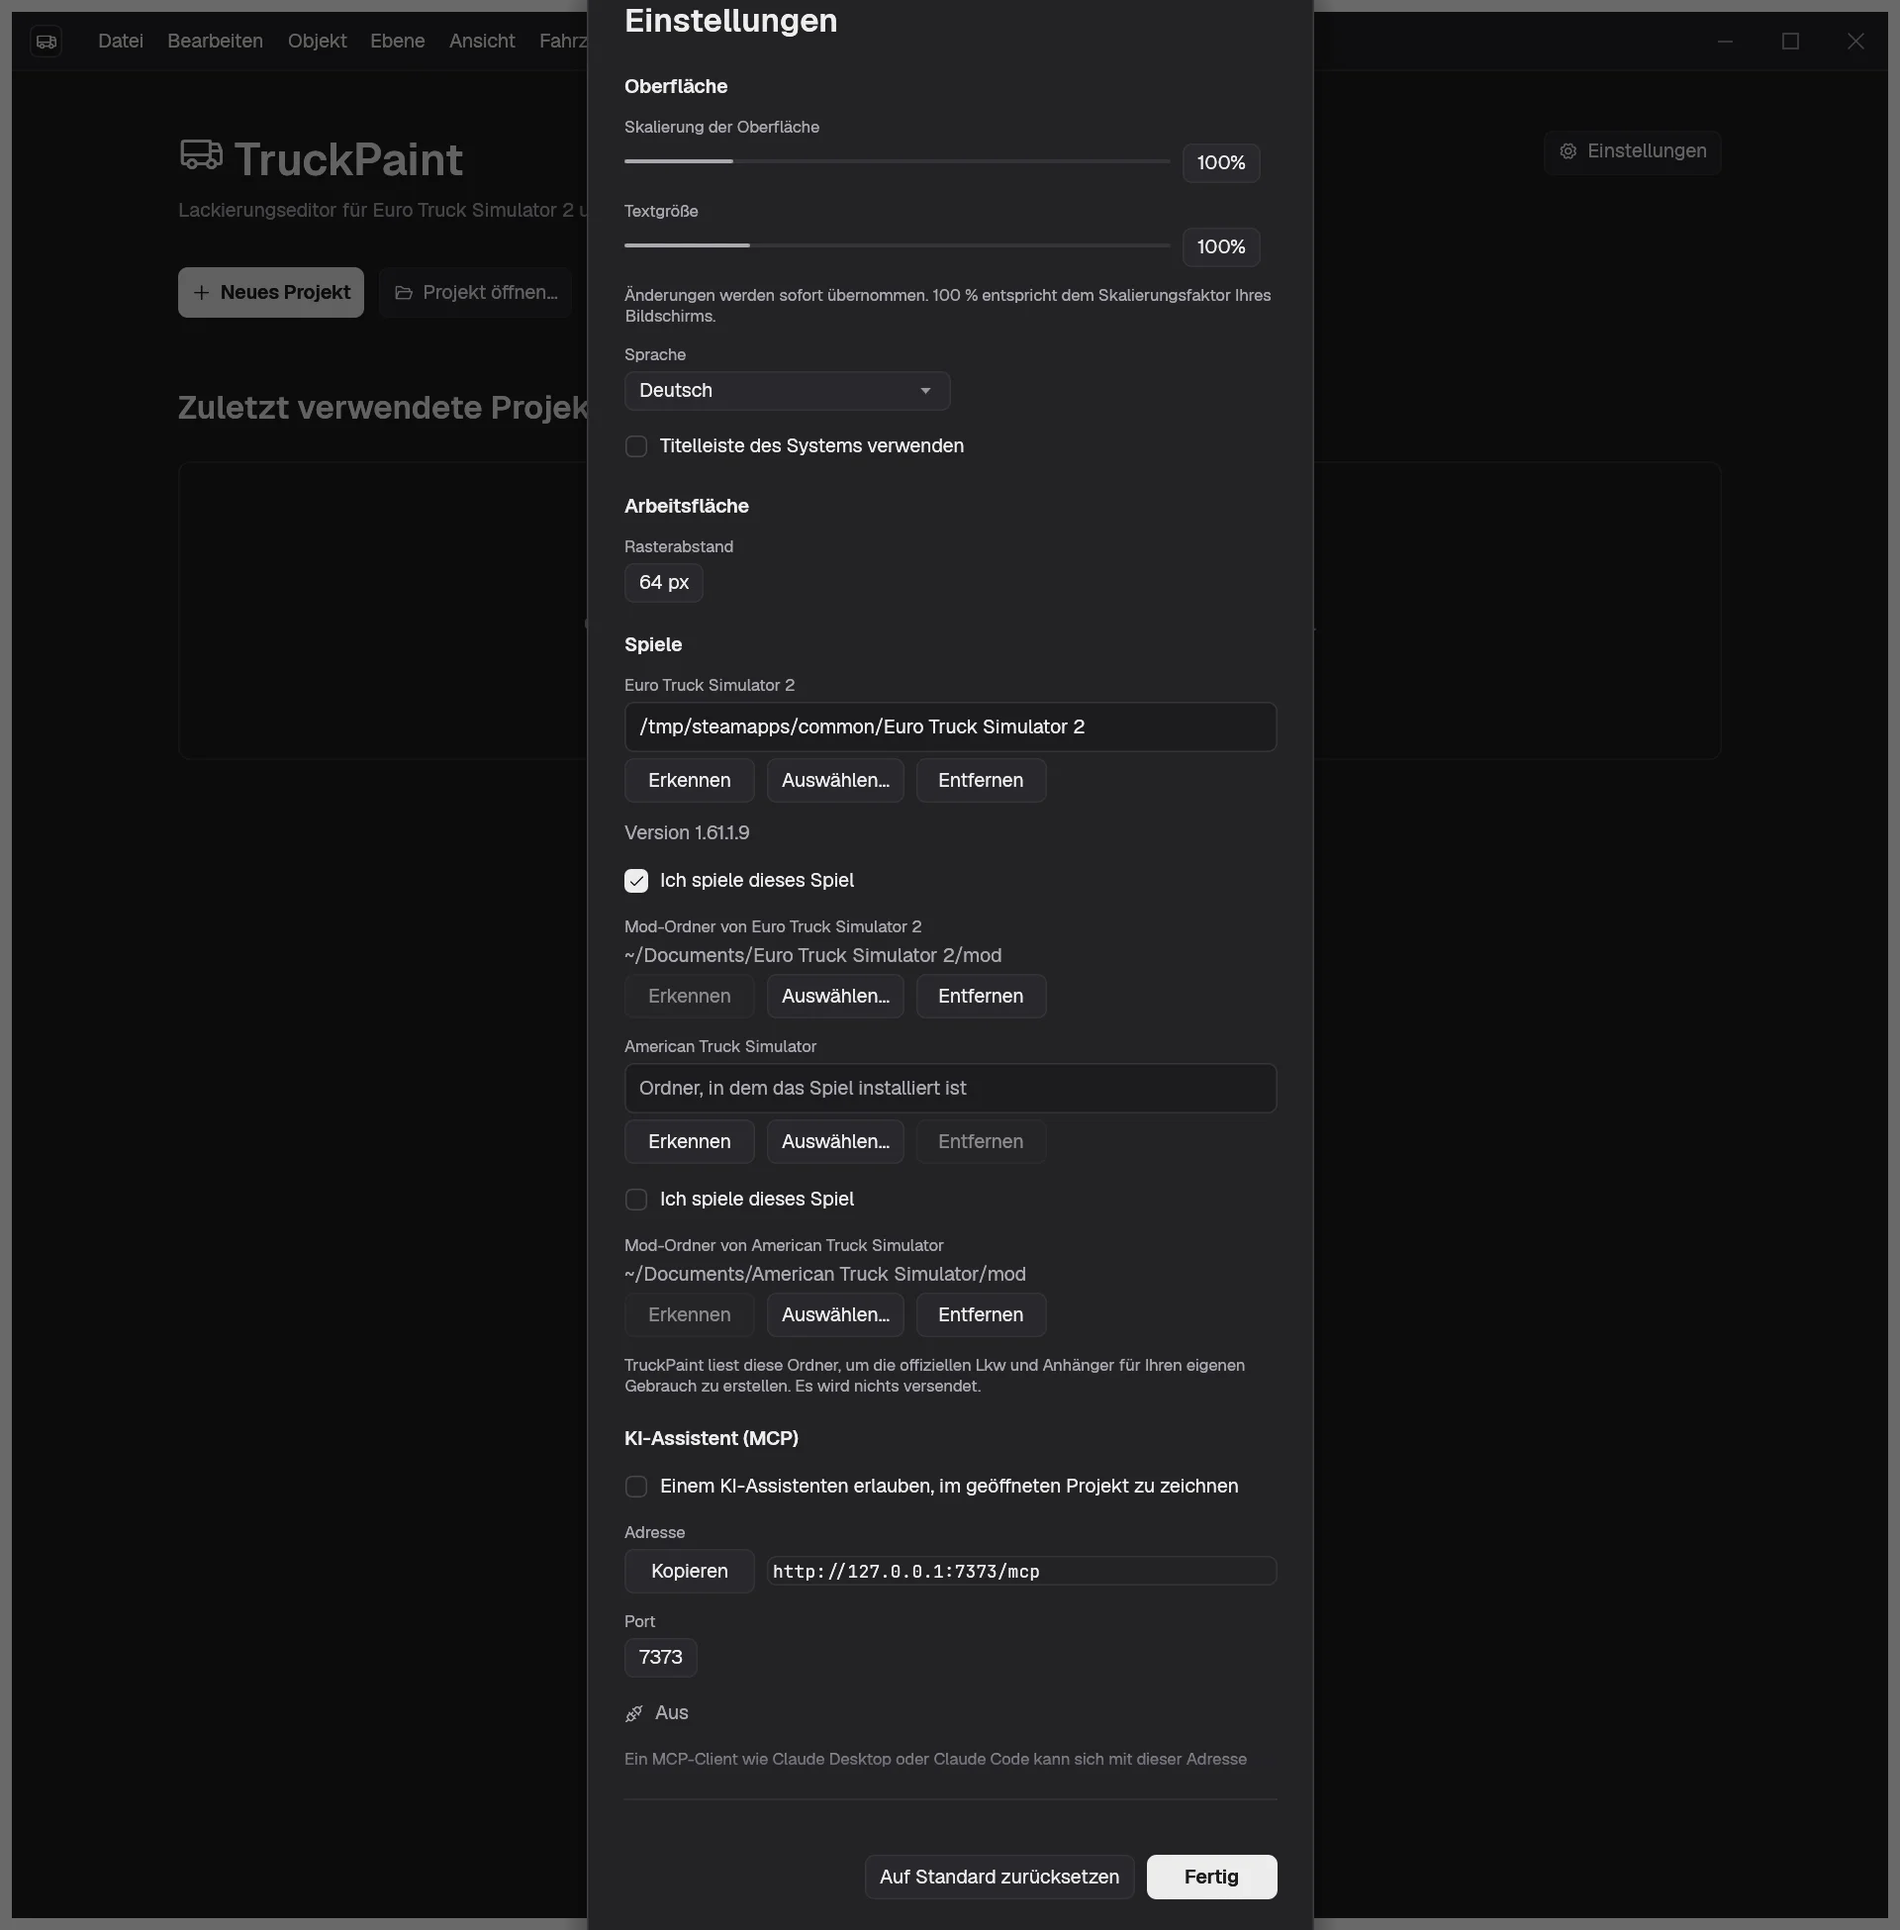
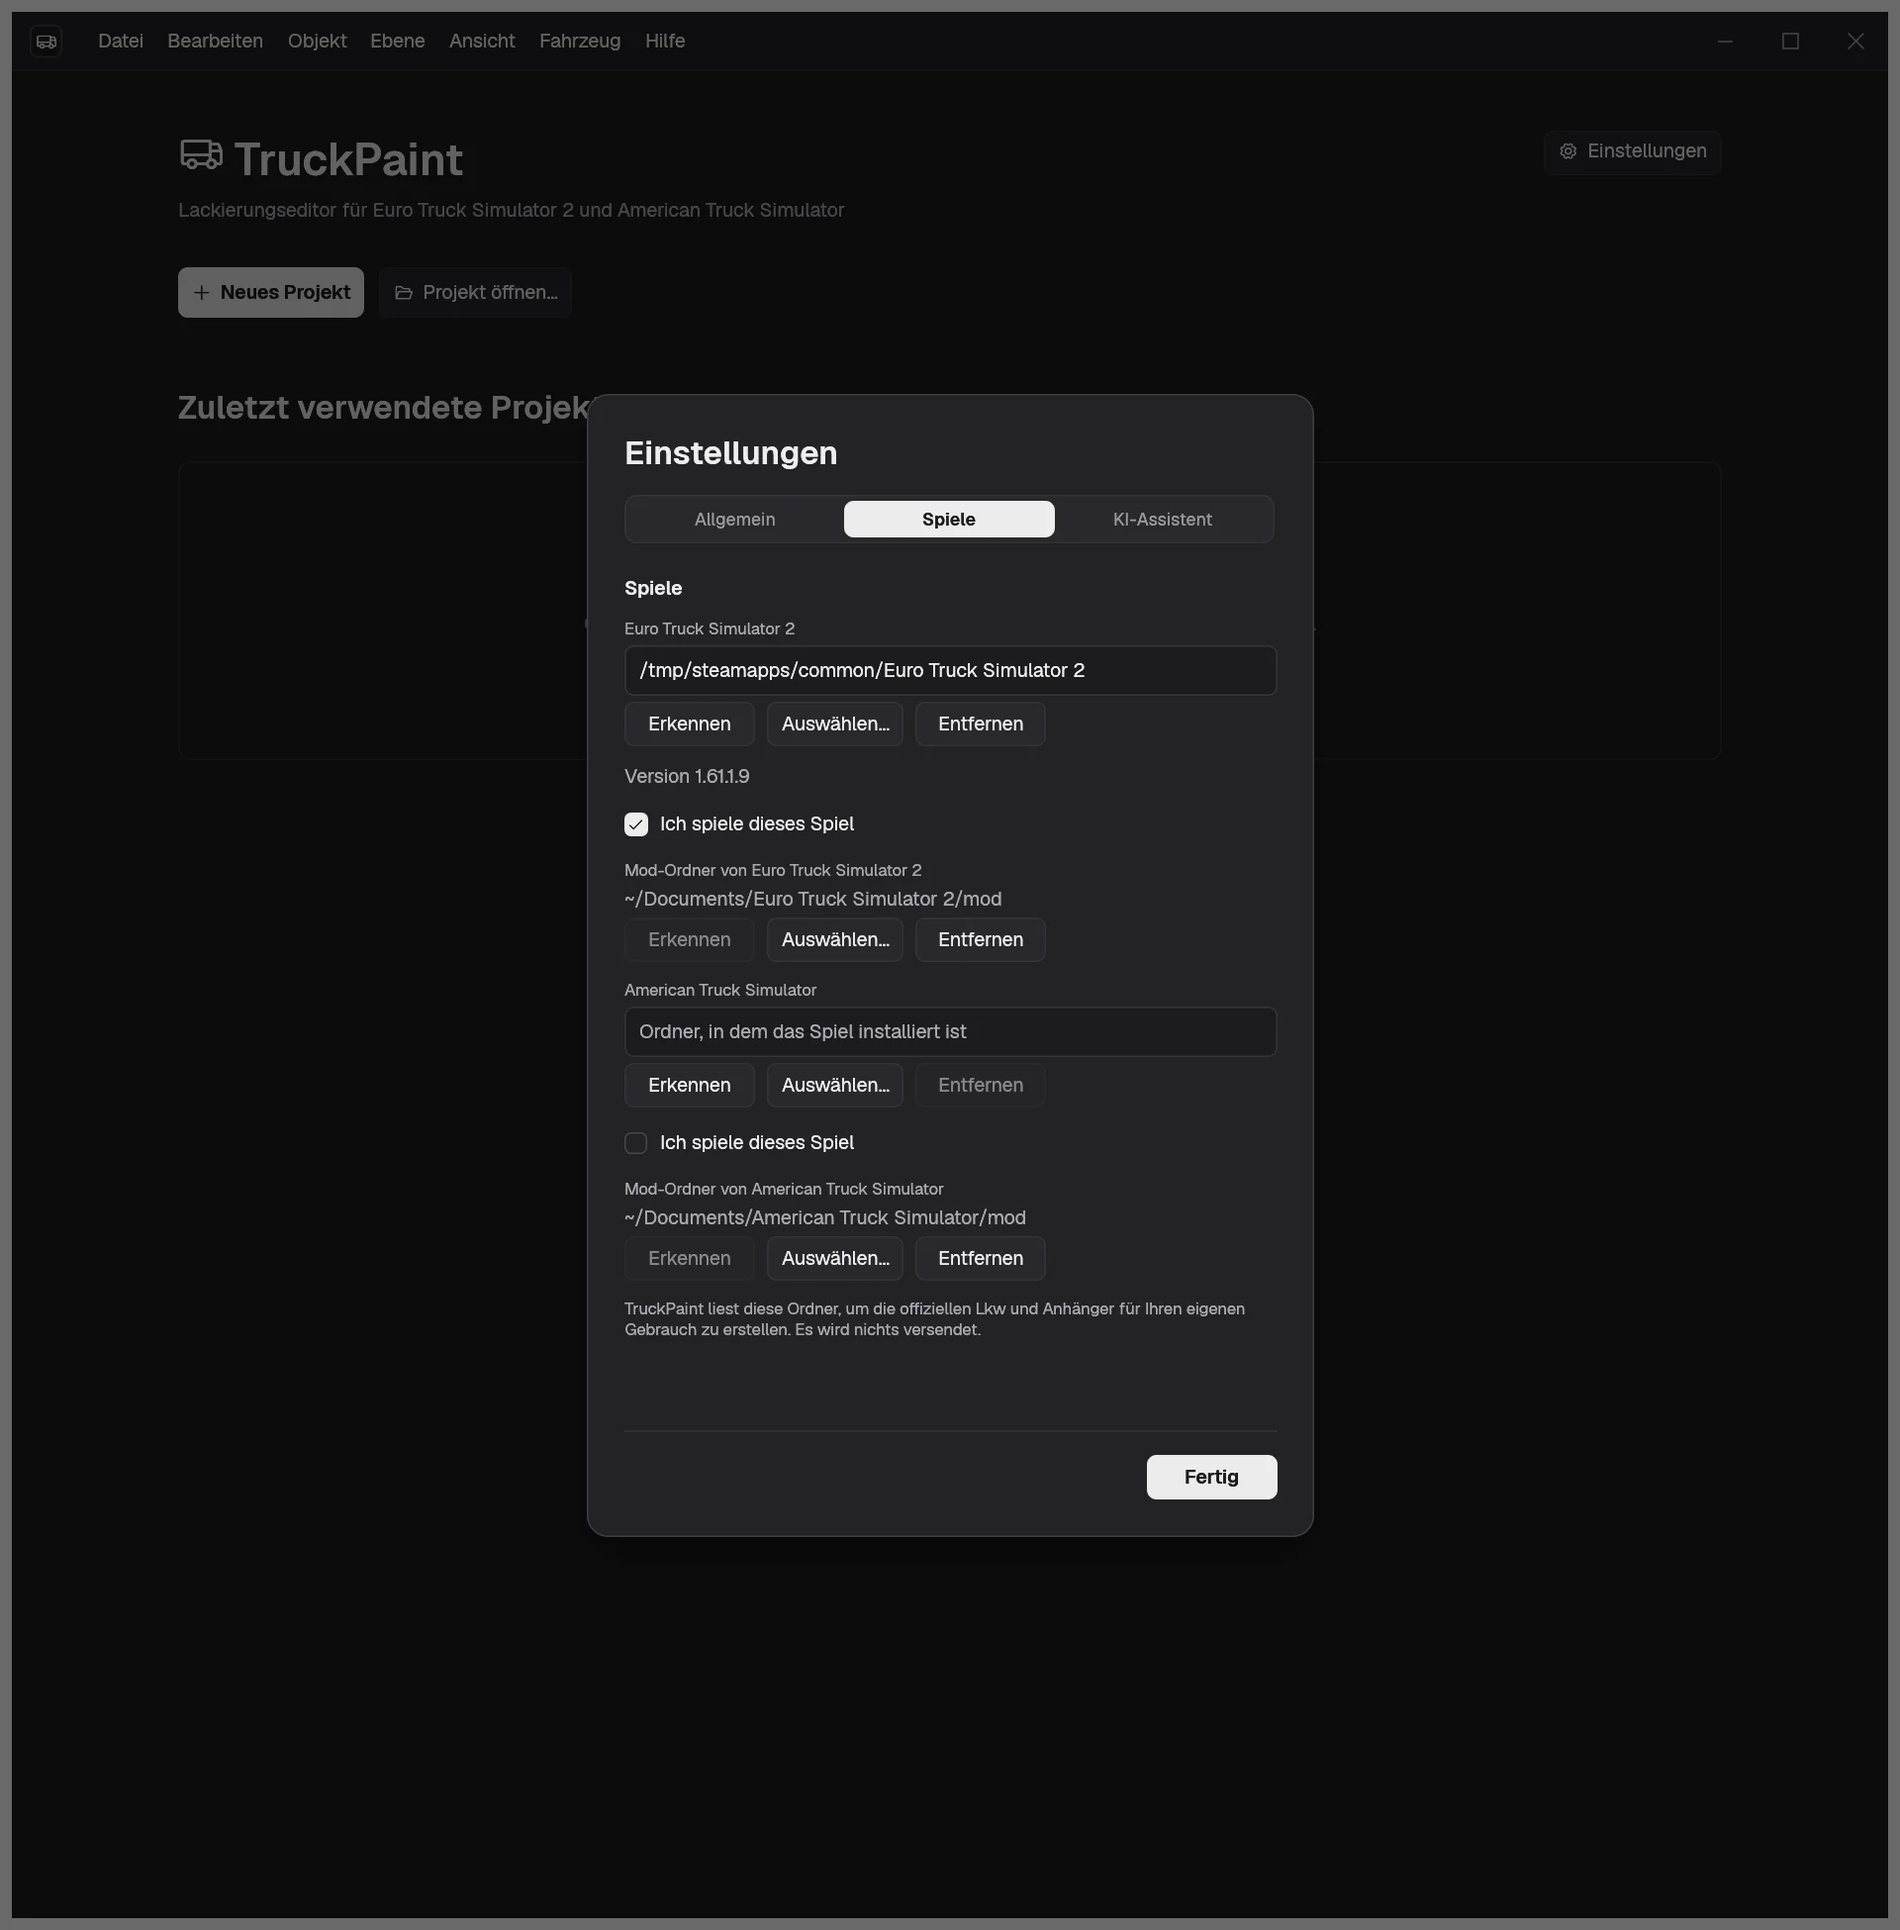
docs: name the Preferences tabs, and render the Preferences pictures again (preferences-pages)

Changed region(s): [[0.2812, 0.0, 0.7188, 1.0], [0.5, 0.3385, 0.5625, 0.4308]]

diff --git a/openspec/changes/preferences-pages/tasks.md b/openspec/changes/preferences-pages/tasks.md
@@ -22,8 +22,8 @@
 
 ## 5. Documentation
 
-- [ ] 5.1 Pages that send players to a Preferences section name the tab: `ai-assistant/setup`, `vehicles/official-vehicles`, `workshop/tools`, `getting-started/first-launch`, `getting-started/installation`, in en then fr, es, de. Verify: `mise run doc:build` passes, and no page under `website/src/content/docs/` says "section" for Games or AI assistant in Preferences.
-- [ ] 5.2 Point the `vehicles/game-folders` and `ai-assistant/preferences` scenarios in `doc_media.rs` at their tabs. Run `mise run doc:media vehicles` and `mise run doc:media ai-assistant`, look at the images, and commit them. Verify: each image shows its tab whole, with no machine-specific path.
+- [x] 5.1 Pages that send players to a Preferences section name the tab: `ai-assistant/setup`, `vehicles/official-vehicles`, `workshop/tools`, `getting-started/first-launch`, `getting-started/installation`, in en then fr, es, de. Verify: `mise run doc:build` passes, and no page under `website/src/content/docs/` says "section" for Games or AI assistant in Preferences.
+- [x] 5.2 Point the `vehicles/game-folders` and `ai-assistant/preferences` scenarios in `doc_media.rs` at their tabs. Run `mise run doc:media vehicles` and `mise run doc:media ai-assistant`, look at the images, and commit them. Verify: each image shows its tab whole, with no machine-specific path.
 
 ## 6. Wrap up
 
